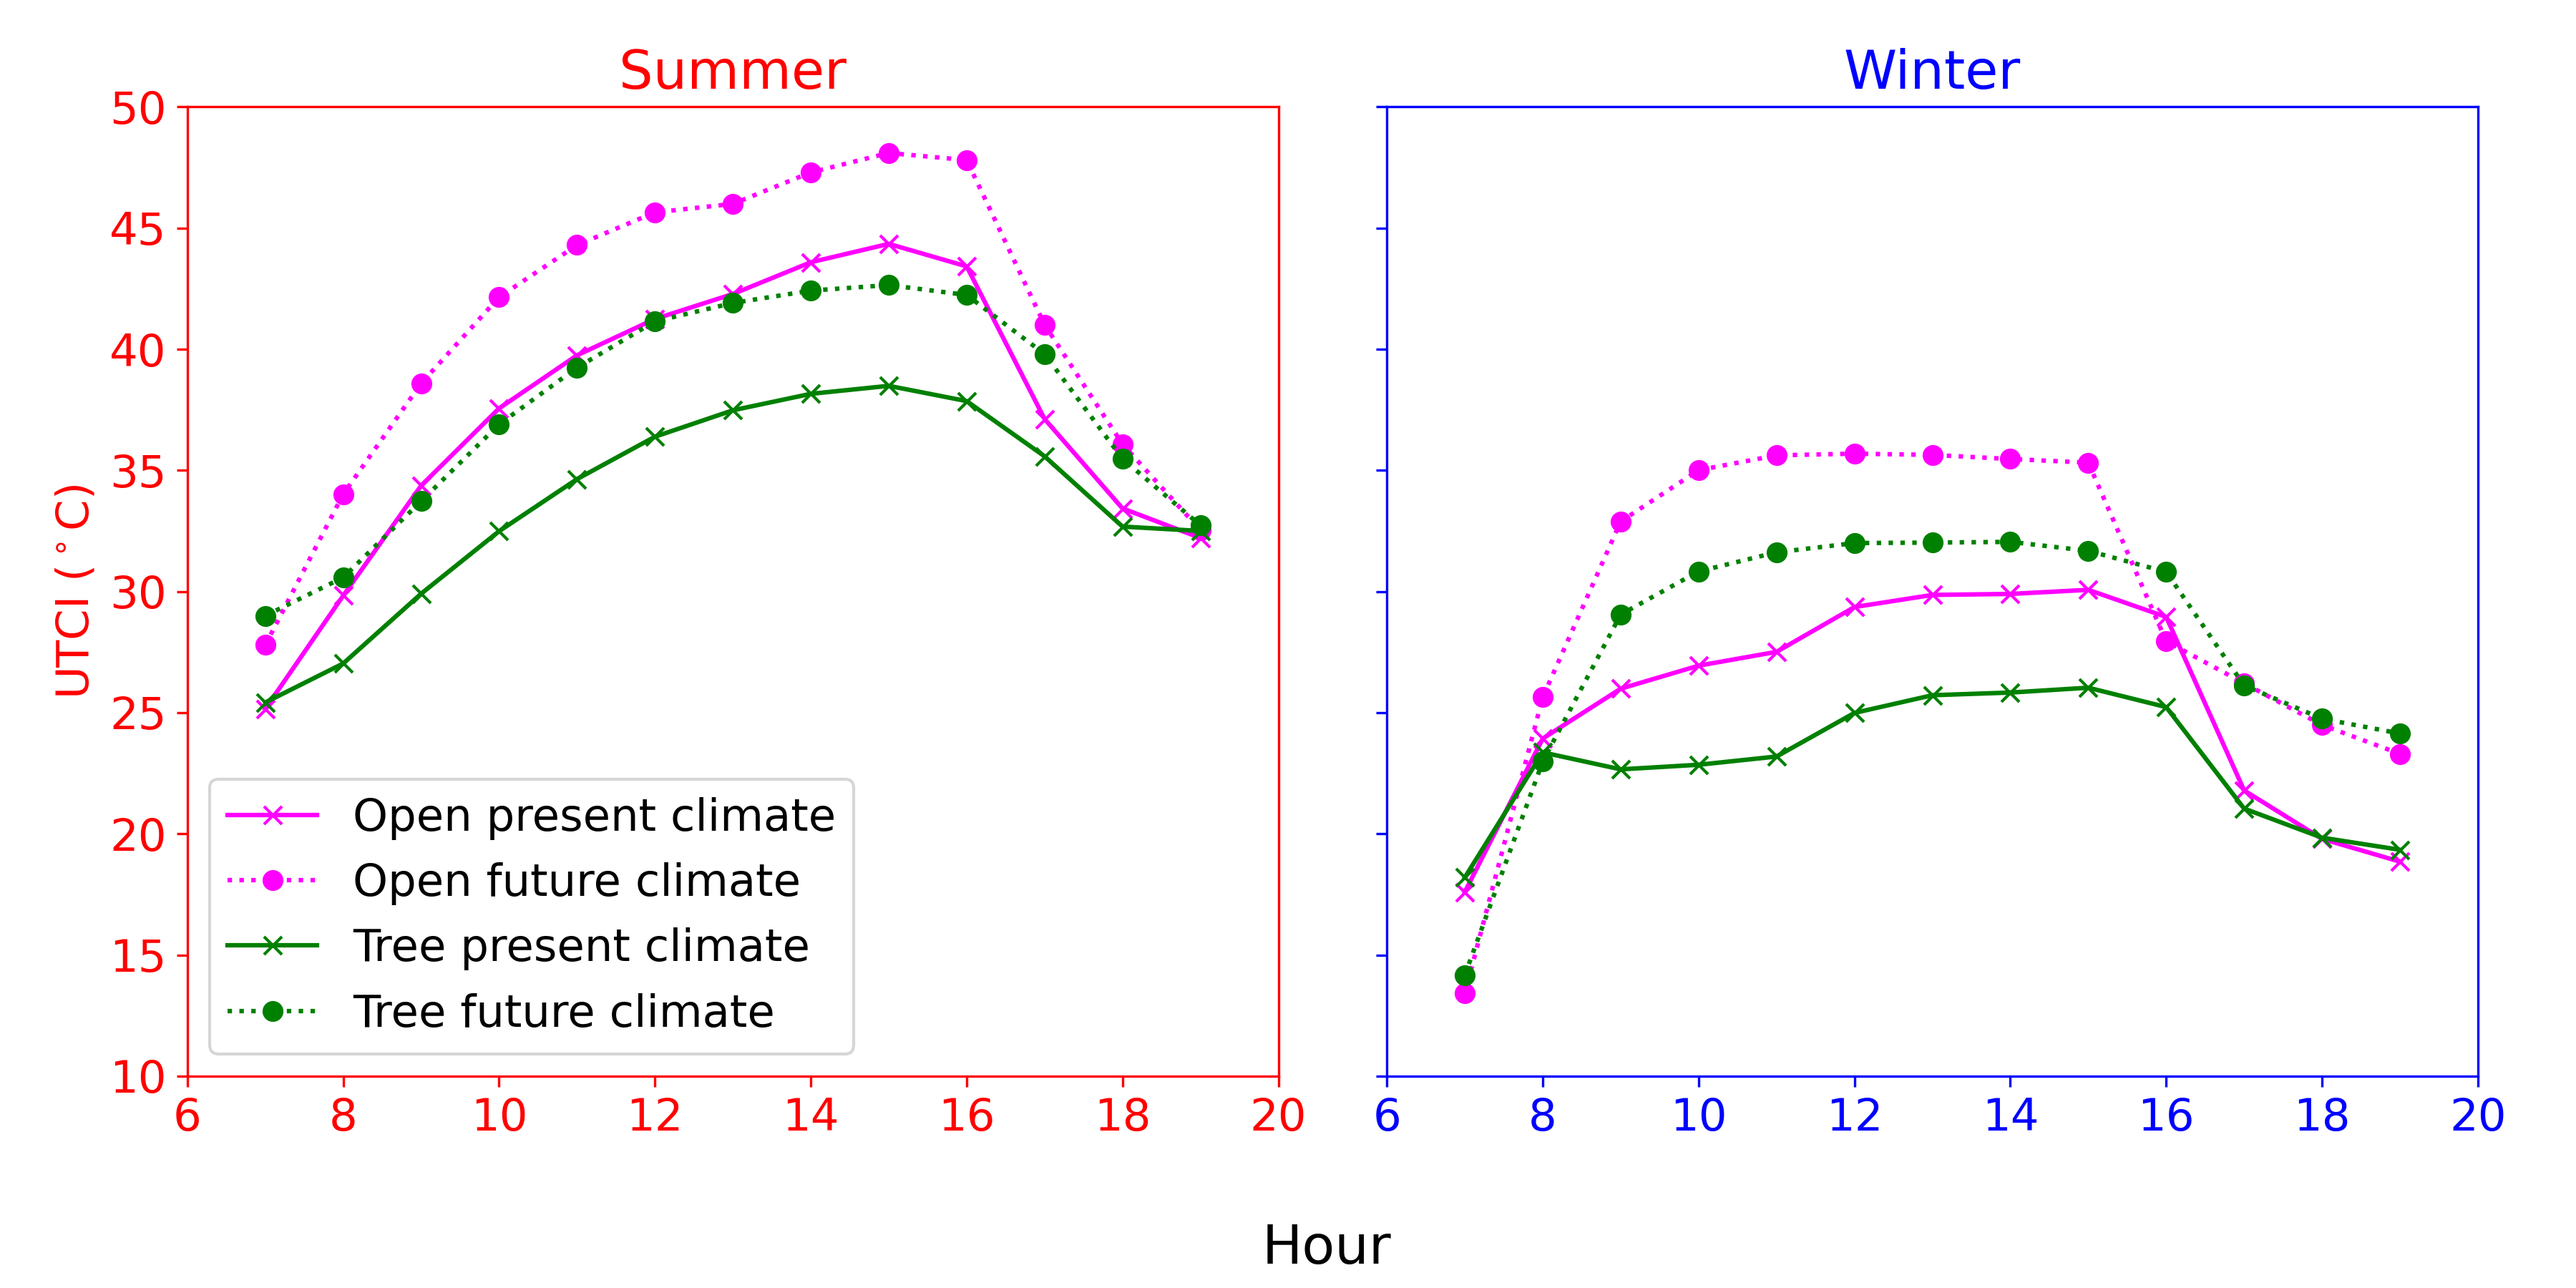
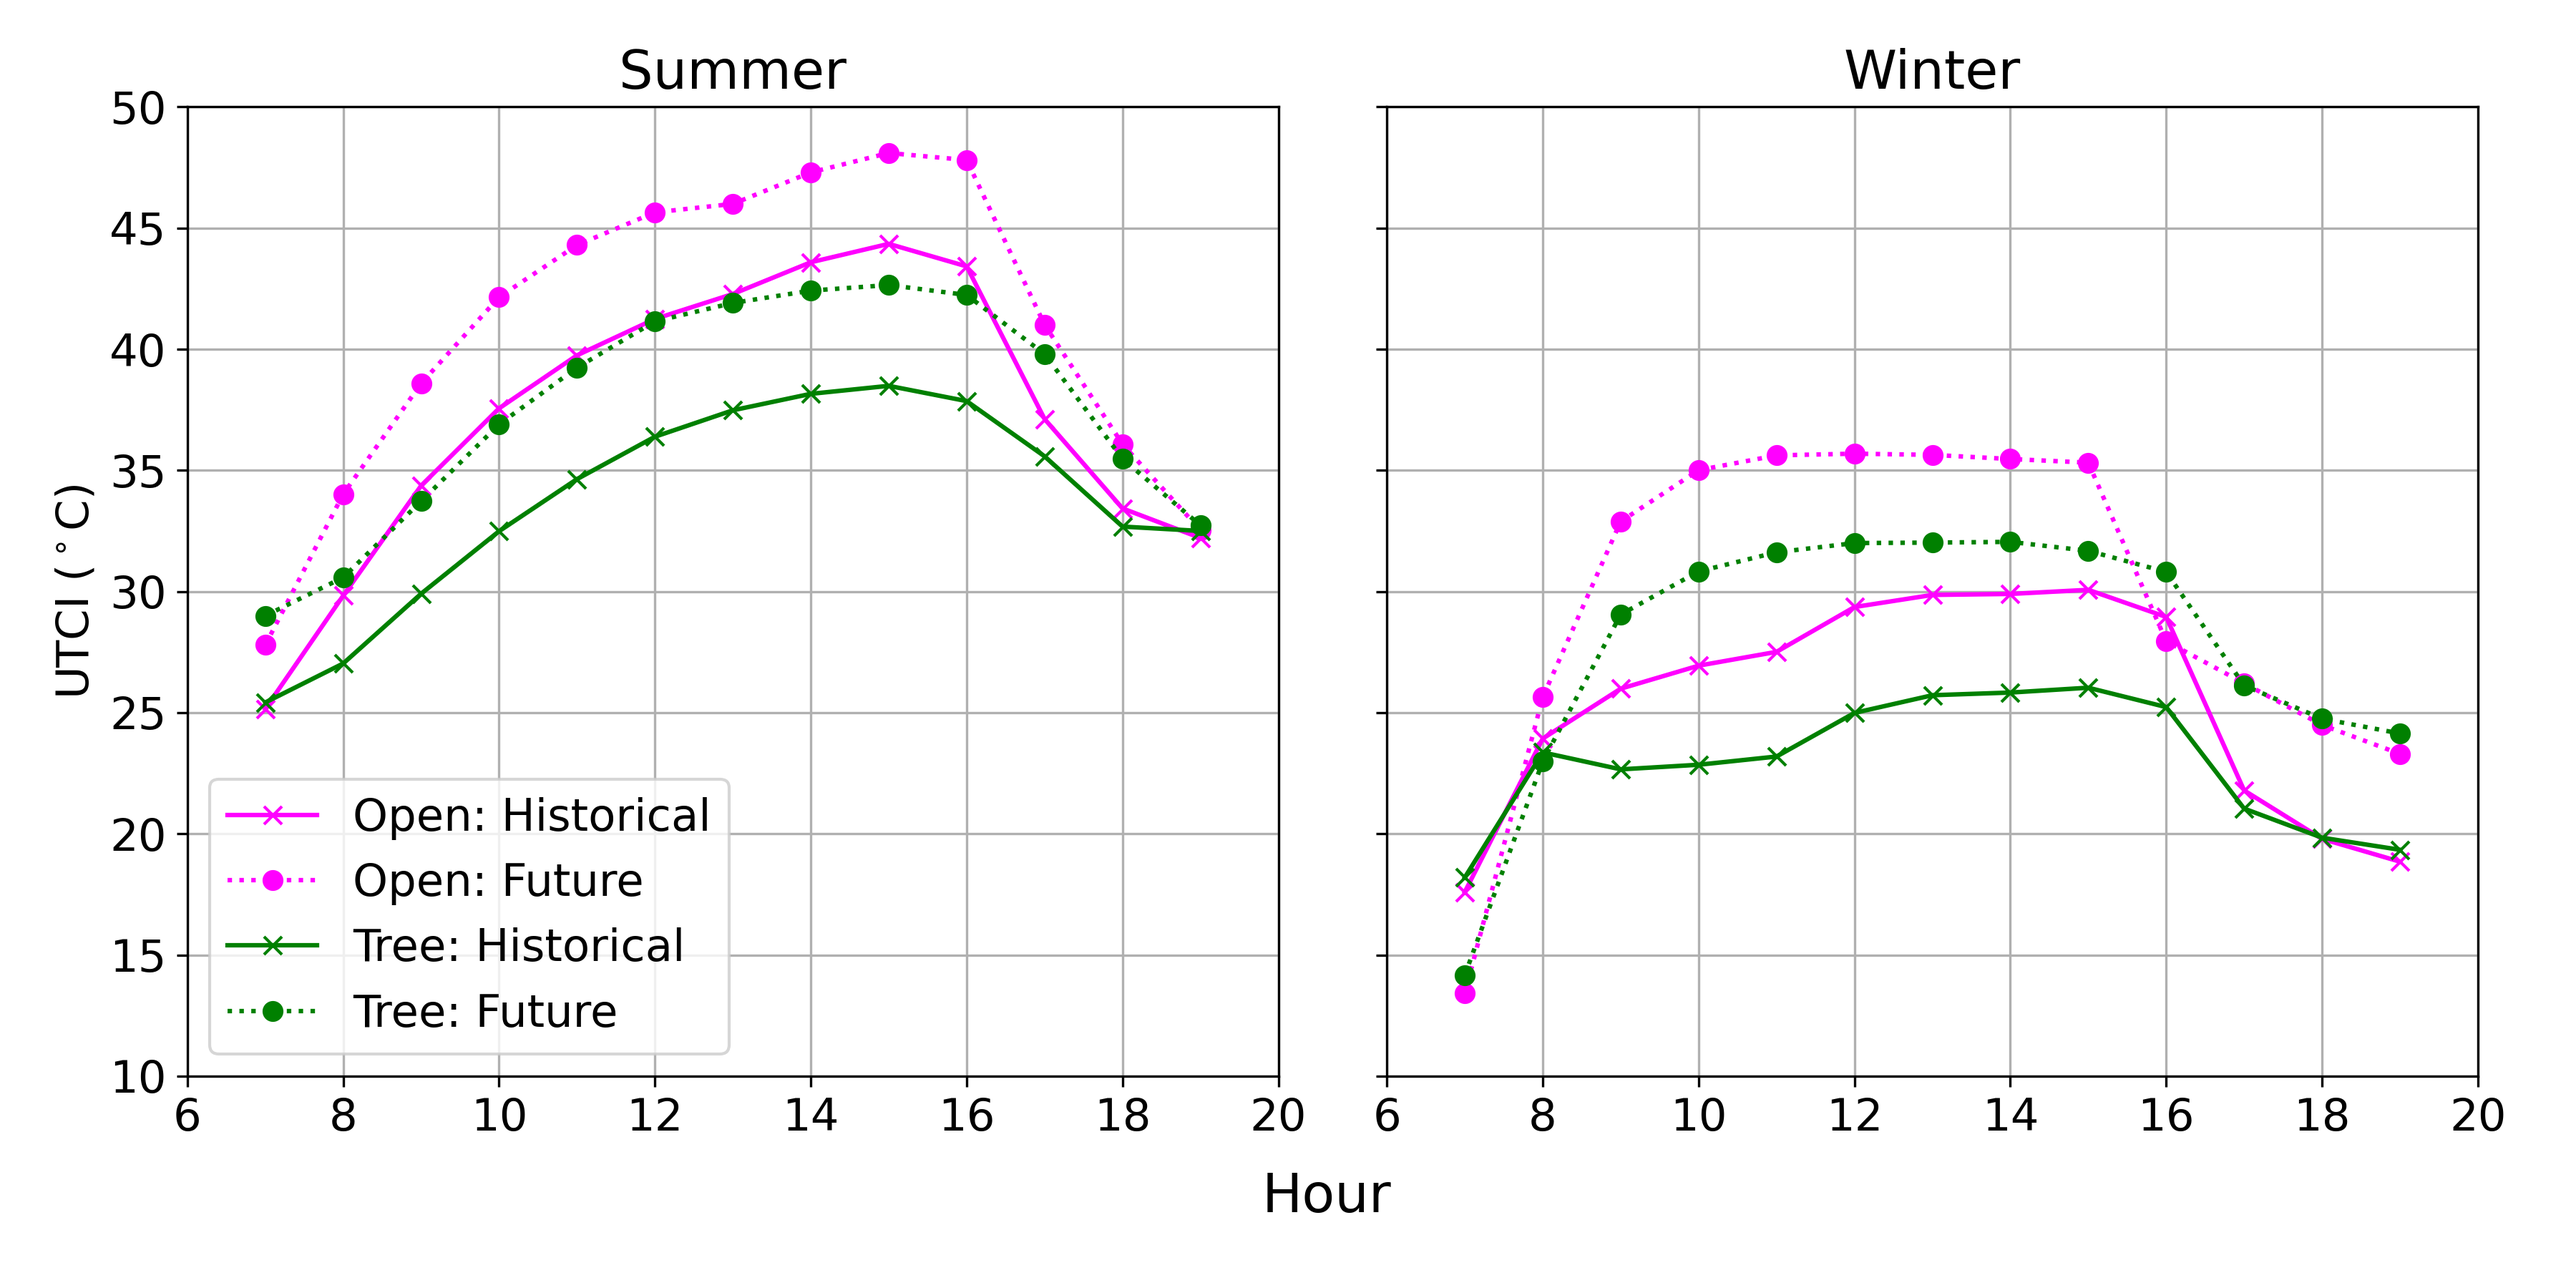
Update UTCI plot for Matthias

diff --git a/UTCI_plot_POI.py b/UTCI_plot_POI.py
@@ -7,7 +7,6 @@ import matplotlib as mpl
 import glob
 import os
 
-
 mpl.use('TkAgg')
 
 mpl.rcParams.update({'font.size': 15})
@@ -39,14 +38,23 @@ labelDict = {'Balbala_open_average_djf': 'Open 2007-01-21',
              'Balbala_tree_hot_jja': 'Tree 2015-08-13'}
 
 # Average current, average future
-labelDict_ = {'Balbala_open_average_djf': 'Open present climate',
-              'Balbala_open_average_jja': 'Open present climate',
-              'Balbala_open_hot_djf': 'Open future climate',
-              'Balbala_open_hot_jja': 'Open future climate',
-              'Balbala_tree_average_djf': 'Tree present climate',
-              'Balbala_tree_average_jja': 'Tree present climate',
-              'Balbala_tree_hot_djf': 'Tree future climate',
-              'Balbala_tree_hot_jja': 'Tree future climate'}
+# labelDict_ = {'Balbala_open_average_djf': 'Open present climate',
+#               'Balbala_open_average_jja': 'Open present climate',
+#               'Balbala_open_hot_djf': 'Open future climate',
+#               'Balbala_open_hot_jja': 'Open future climate',
+#               'Balbala_tree_average_djf': 'Tree present climate',
+#               'Balbala_tree_average_jja': 'Tree present climate',
+#               'Balbala_tree_hot_djf': 'Tree future climate',
+#               'Balbala_tree_hot_jja': 'Tree future climate'}
+
+labelDict_ = {'Balbala_open_average_djf': 'Open: Historical',
+              'Balbala_open_average_jja': 'Open: Historical',
+              'Balbala_open_hot_djf': 'Open: Future',
+              'Balbala_open_hot_jja': 'Open: Future',
+              'Balbala_tree_average_djf': 'Tree: Historical',
+              'Balbala_tree_average_jja': 'Tree: Historical',
+              'Balbala_tree_hot_djf': 'Tree: Future',
+              'Balbala_tree_hot_jja': 'Tree: Future'}
 
 # ax = plt.subplot(1, 1, 1, projection='polar')
 fig = plt.figure(figsize=(12, 6), constrained_layout=True)
@@ -100,55 +108,29 @@ for poifile in poifiles:
                 temp_color = 'magenta'
     # Summer days
     if poi.DOY.to_numpy()[0] > 90:
-        ax1.plot(temp_hour, temp_utci, label=labelDict_[temp_label], color=temp_color, linestyle=temp_line, marker = temp_mark)
+        ax1.plot(temp_hour, temp_utci, label=labelDict_[temp_label], color=temp_color, linestyle=temp_line,
+                 marker=temp_mark)
     # Winter days
     else:
-        ax2.plot(temp_hour, temp_utci, label=labelDict_[temp_label], color=temp_color, linestyle=temp_line, marker = temp_mark)
+        ax2.plot(temp_hour, temp_utci, label=labelDict_[temp_label], color=temp_color, linestyle=temp_line,
+                 marker=temp_mark)
 
-# ax1.legend(prop={'size': 8})
 ax1.set_ylabel('UTCI ($^\circ$C)')
-# ax1.set_xlabel('Hour')
 ax1.set_ylim(10, 50)
 ax1.set_xlim(6, 20)
-ax1.set_title('Summer', c='red')
-# ax1.grid(True)
-
-ax1.spines['bottom'].set_color('red')
-ax1.spines['top'].set_color('red')
-ax1.xaxis.label.set_color('red')
-ax1.tick_params(axis='x', colors='red')
-
-ax1.spines['left'].set_color('red')
-ax1.spines['right'].set_color('red')
-ax1.yaxis.label.set_color('red')
-ax1.tick_params(axis='y', colors='red')
+ax1.set_title('Summer')
+ax1.grid(True)
 
 ax1.legend()
 
-# ax2.legend(prop={'size': 8}, loc='upper left')
-# ax2.set_ylabel('UTCI [$^\circ$C]')
-# ax2.set_xlabel('Hour')
 ax2.set_ylim(10, 50)
 ax2.set_yticklabels([])
 ax2.set_xlim(6, 20)
-ax2.set_title('Winter', c='blue')
-# ax2.grid(True)
-
-ax2.spines['bottom'].set_color('blue')
-ax2.spines['top'].set_color('blue')
-ax2.xaxis.label.set_color('blue')
-ax2.tick_params(axis='x', colors='blue')
-
-ax2.spines['left'].set_color('blue')
-ax2.spines['right'].set_color('blue')
-ax2.tick_params(axis='y', colors='blue')
+ax2.set_title('Winter')
+ax2.grid(True)
 
 # Shared xlabel
-fig.supxlabel('Hour', x=0.515)
-
-# # Add shared legend at position in loc
-# handles, labels = ax1.get_legend_handles_labels()
-# fig.legend(handles, labels, loc=(0.434, 0.78), facecolor='white', framealpha=1)
+fig.supxlabel('Hour', x=0.515, y=0.05)
 
 fig.tight_layout()
 fig.savefig(save_path + 'UTCI.png', dpi=300)
